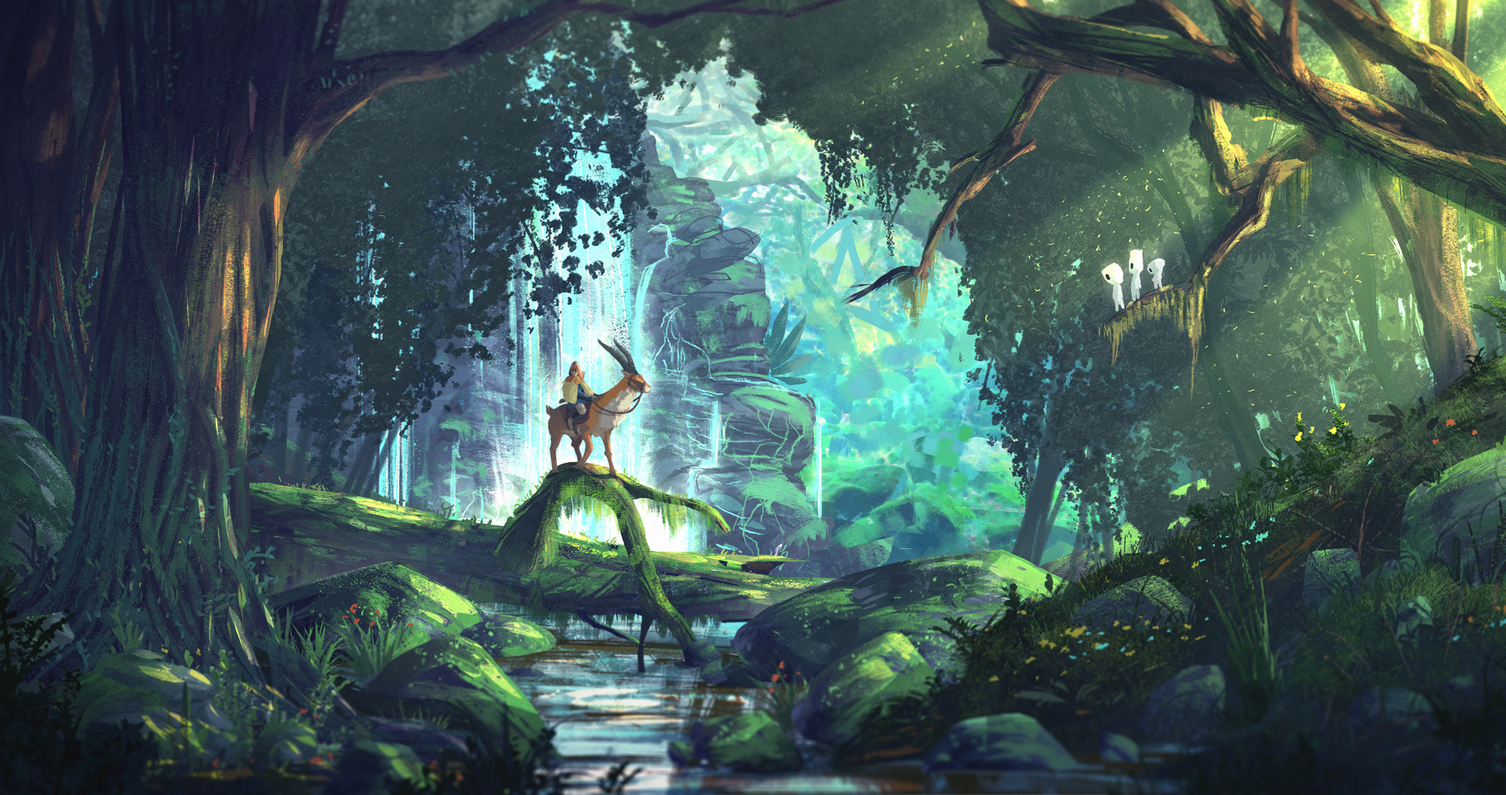
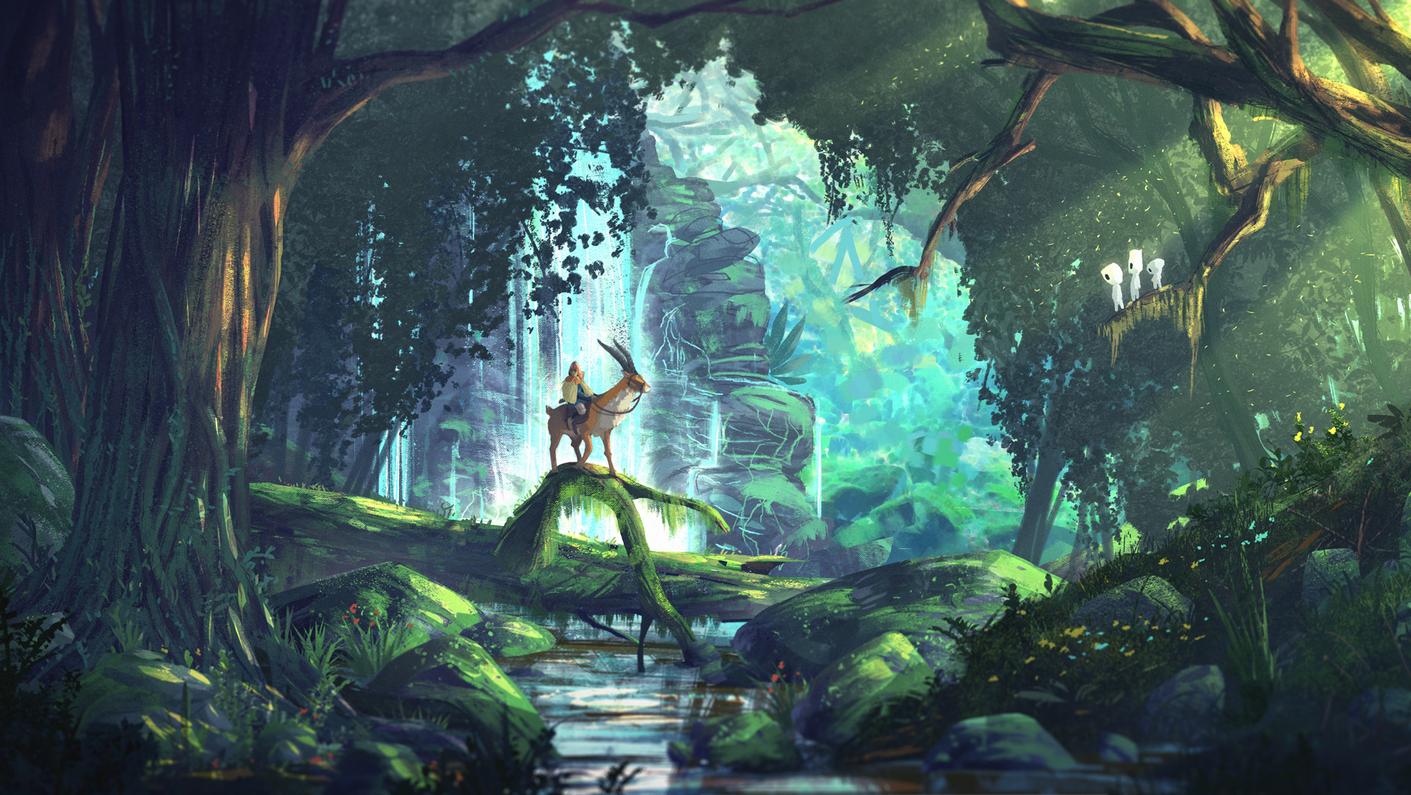
Fixed main page background

diff --git a/src/main/resources/static/css/home_style.css b/src/main/resources/static/css/home_style.css
@@ -1,3 +1,9 @@
+body {
+    background-image: url("../images/mf.jpg");
+    background-size:     cover;                      /* <------ */
+    background-repeat:   no-repeat;
+
+}
 .home_buttons {
 
     width: 300px;
@@ -6,11 +12,7 @@
     margin-right: auto;
 
 }
-body {
-    background-image: url("../images/mf.jpg");
-    background-size:cover;
 
-}
 .center {
 
     margin: auto;

diff --git a/src/main/resources/static/css/board_lines.css b/src/main/resources/static/css/board_lines.css
@@ -1,7 +1,8 @@
 body {
-    //background-image: url("../images/page7.jpg");
+    /*background-image: url("../images/page7.jpg");*/
     /*background-image: url("../images/mon2.jpg");*/
     background-image:url("../images/pp.png");
+    background-size:cover;
 
 }
 div.board {
